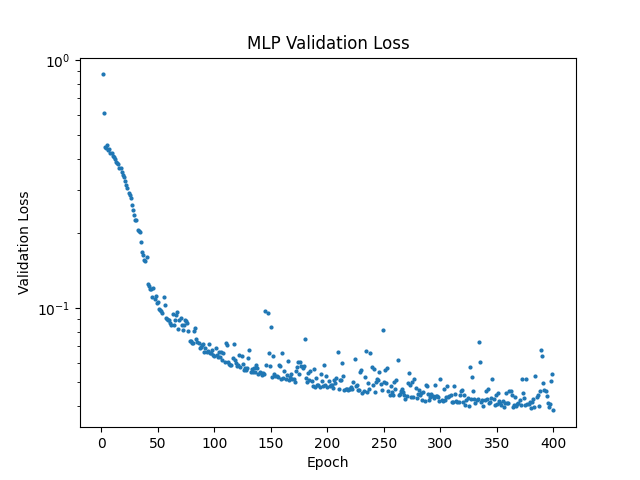
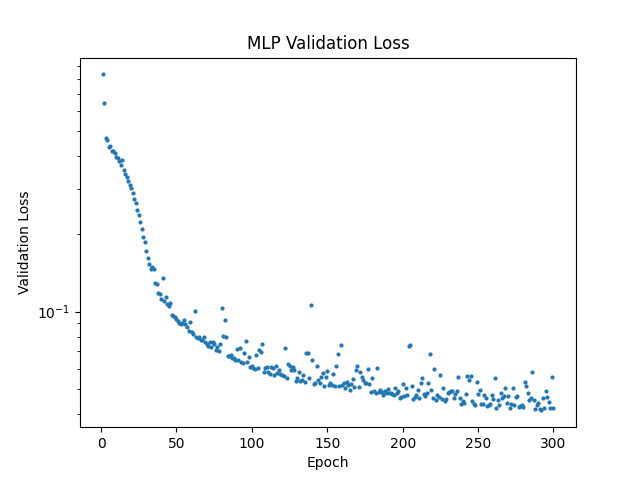
Next steps: plotting

diff --git a/P1/P1.py b/P1/P1.py
@@ -17,7 +17,7 @@ from sklearn.neighbors import KNeighborsRegressor
 
 
 
-#------------------------------------------ DOWNLOADS & SETUP ------------------------------------------ 
+#------------------- DOWNLOADS & SETUP ------------------------------------------ 
 # Downloading labels:
 path_labels = "./data/labels.fits"
 allstar = fits.open(path_labels) # loads star database data
@@ -62,7 +62,7 @@ test_features = np.load('./data/test_features.npy')
 
 
 
-#------------------------------------------ LINEAR REGRESSION ------------------------------------------
+#------------------- LINEAR REGRESSION ------------------------------------------
 def linear_regression(epochs, batch_size, delta_threshold, learning_rate):
     
     #-------------------------------------------------
@@ -85,11 +85,11 @@ def linear_regression(epochs, batch_size, delta_threshold, learning_rate):
     y_np = np.array(train_labels["LOGG"], dtype=np.float32)  # forces native float32
     y_train = torch.from_numpy(y_np).view(-1, 1)
     dataset = TensorDataset(x_train, y_train)
-    #
+    
     x_valid = torch.tensor(valid_features, dtype=torch.float32) # (N, d)
     y_np = np.array(valid_labels["LOGG"], dtype=np.float32)  # forces native float32
     y_valid = torch.from_numpy(y_np).view(-1, 1)
-    #
+    
     x_test = torch.tensor(test_features, dtype=torch.float32) # (N, d)
     y_np = np.array(test_labels["LOGG"], dtype=np.float32)  # forces native float32
     y_test = torch.from_numpy(y_np).view(-1, 1)
@@ -173,8 +173,8 @@ def linear_regression(epochs, batch_size, delta_threshold, learning_rate):
 
 
 
-#---------------------------------------- K NEAREST NEIGHBORS ------------------------------------------
-def KNN(k_range):
+#------------------- K NEAREST NEIGHBORS ------------------------------------------
+def KNN(k_range: list[int]):
     
     #---------------------------------------------------------
     # Data prep:
@@ -191,8 +191,8 @@ def KNN(k_range):
 
     #------------------------------------------------------------------------------------------------
     # Train:
-    def train(k_range: list[int]):
-
+    def train():
+        #
         loss_train = np.empty(len(k_range), dtype=np.float32) # initializing training loss for each k
 
         for i, k in enumerate(k_range):
@@ -201,7 +201,7 @@ def KNN(k_range):
             knn.fit(x_train, y_train) 
             f_train = knn.predict(x_train) 
             loss_train[i] = ((y_train - f_train)**2).mean() # MSE loss
-
+            #
             i_min = int(np.argmin(loss_train))  # index of minimum loss over k_range
             k_opt = k_range[i_min] # best training k
 
@@ -209,7 +209,7 @@ def KNN(k_range):
     
 
     # Validate:
-    def validate(k_range: list[int]):
+    def validate():
         # Running KNN:
         k_opt = train(k_range) # extracting the optimal k from the training runs
         knn = KNeighborsRegressor(n_neighbors=k_opt)
@@ -247,7 +247,7 @@ def KNN(k_range):
 
 
 
-#--------------------------------------- MULTI-LAYER PERCEPTRON ---------------------------------------
+#------------------- MULTI-LAYER PERCEPTRON ---------------------------------------
 def MLP(epochs, train_batch_size, delta_threshold, learning_rate):
 
     #-------------------------------------------------------------------------------
@@ -297,13 +297,13 @@ def MLP(epochs, train_batch_size, delta_threshold, learning_rate):
     y_np = np.array(train_labels["LOGG"], dtype=np.float32)  # forces native float32
     y_train = torch.from_numpy(y_np).view(-1, 1)
     train_loader = DataLoader(TensorDataset(x_train, y_train), batch_size=train_batch_size, shuffle=True)  # batches
-    #
+    
     x_valid = torch.tensor(valid_features, dtype=torch.float32) # (N, d)
     y_np = np.array(valid_labels["LOGG"], dtype=np.float32)  # forces native float32
     y_valid = torch.from_numpy(y_np).view(-1, 1)
     valid_batch_size = int(0.25 * train_batch_size)
     valid_loader = DataLoader(TensorDataset(x_valid, y_valid), batch_size=valid_batch_size, shuffle=False)  # batches
-    #
+    
     x_test = torch.tensor(test_features, dtype=torch.float32) # (N, d)
     y_np = np.array(test_labels["LOGG"], dtype=np.float32)  # forces native float32
     y_test = torch.from_numpy(y_np).view(-1, 1)
@@ -334,7 +334,7 @@ def MLP(epochs, train_batch_size, delta_threshold, learning_rate):
             loss_batch = loss_fn(f, yb) # loss averaged over batch (1/B)
             loss_batch.backward() # backward pass
             optimizer.step() # updating weights and biases
-
+            #
             loss_total += loss_batch.item() * xb.size(0)  # sum over batch sum of squares
             N += xb.size(0) # sum over number of samples in each batch
         
@@ -365,22 +365,25 @@ def MLP(epochs, train_batch_size, delta_threshold, learning_rate):
     
 
     # Looping over epochs, stopping either at training or validation threshold loss:
-    loss_valid_prev = None # initializing the validation loss averaged over batches
     loss_array = np.empty((epochs, 2)) # initializing array that tracks train and valid loss
     N_epochs = int(0) # initializing epochs looped over
+
     for epoch in range(epochs): 
         model, loss_train = train(train_loader) # 1 training update step
         loss_valid = validate(model, valid_loader) # validation loss using updated train step params
-
+        #
         loss_array[epoch, 0] = loss_train 
         loss_array[epoch, 1] = loss_valid
-
         # Stop condition based off validation loss to prevent overfitting:
-        # if loss_valid_prev is not None: 
-        #     if abs(loss_valid - loss_valid_prev) <= delta_threshold:
-        #         break
-
-        loss_valid_prev = loss_valid 
+        avg_size = 5  # number of epochs to average over 
+        #
+        if epoch + 1 >= 2 * avg_size: # checking for stop condition only after 2 * avg_size
+            curr_avg = loss_array[epoch-avg_size+1: epoch+1, 1].mean()
+            prev_avg = loss_array[epoch-2*avg_size+1: epoch-avg_size+1, 1].mean()
+            #
+            if abs(curr_avg - prev_avg) <= delta_threshold:
+                break
+       
         N_epochs += 1
 
  
@@ -419,4 +422,4 @@ def MLP(epochs, train_batch_size, delta_threshold, learning_rate):
 
 
     
-MLP(400, 128, 1e-4, 1e-4)
+MLP(400, 128, 1e-5, 1e-4)
